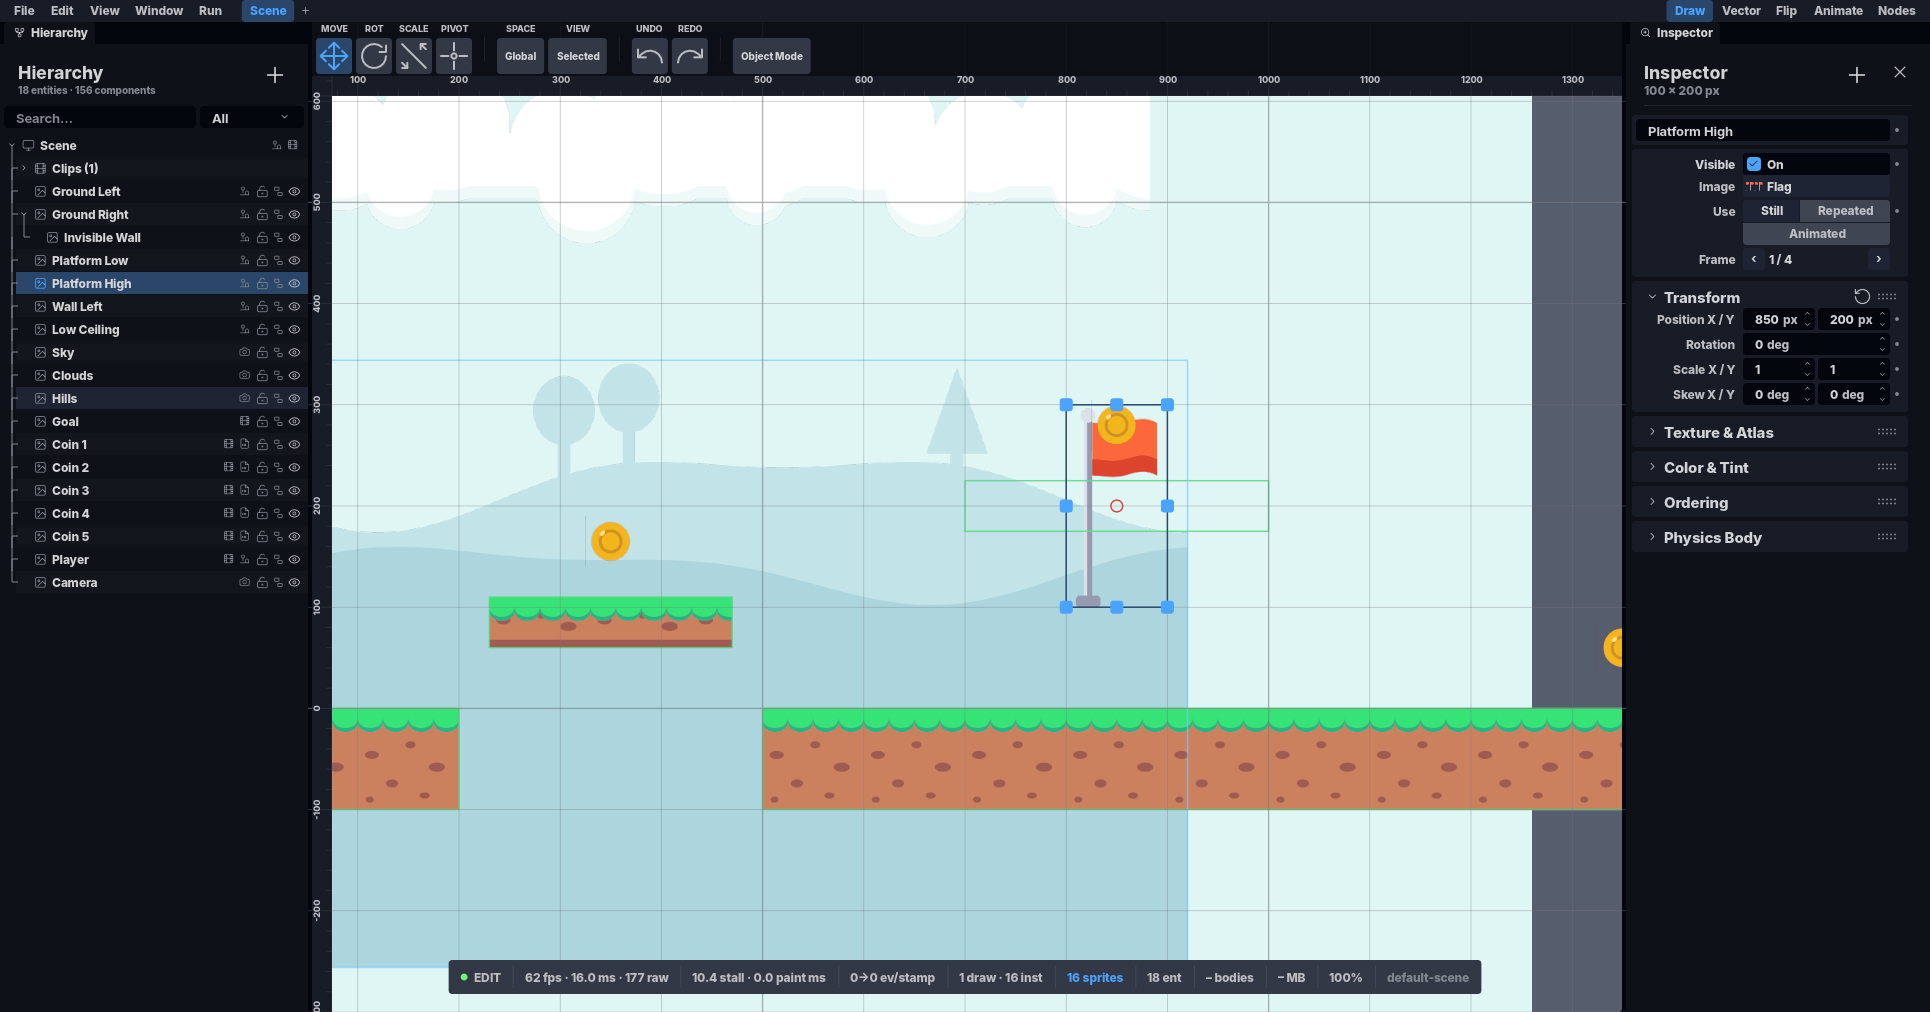
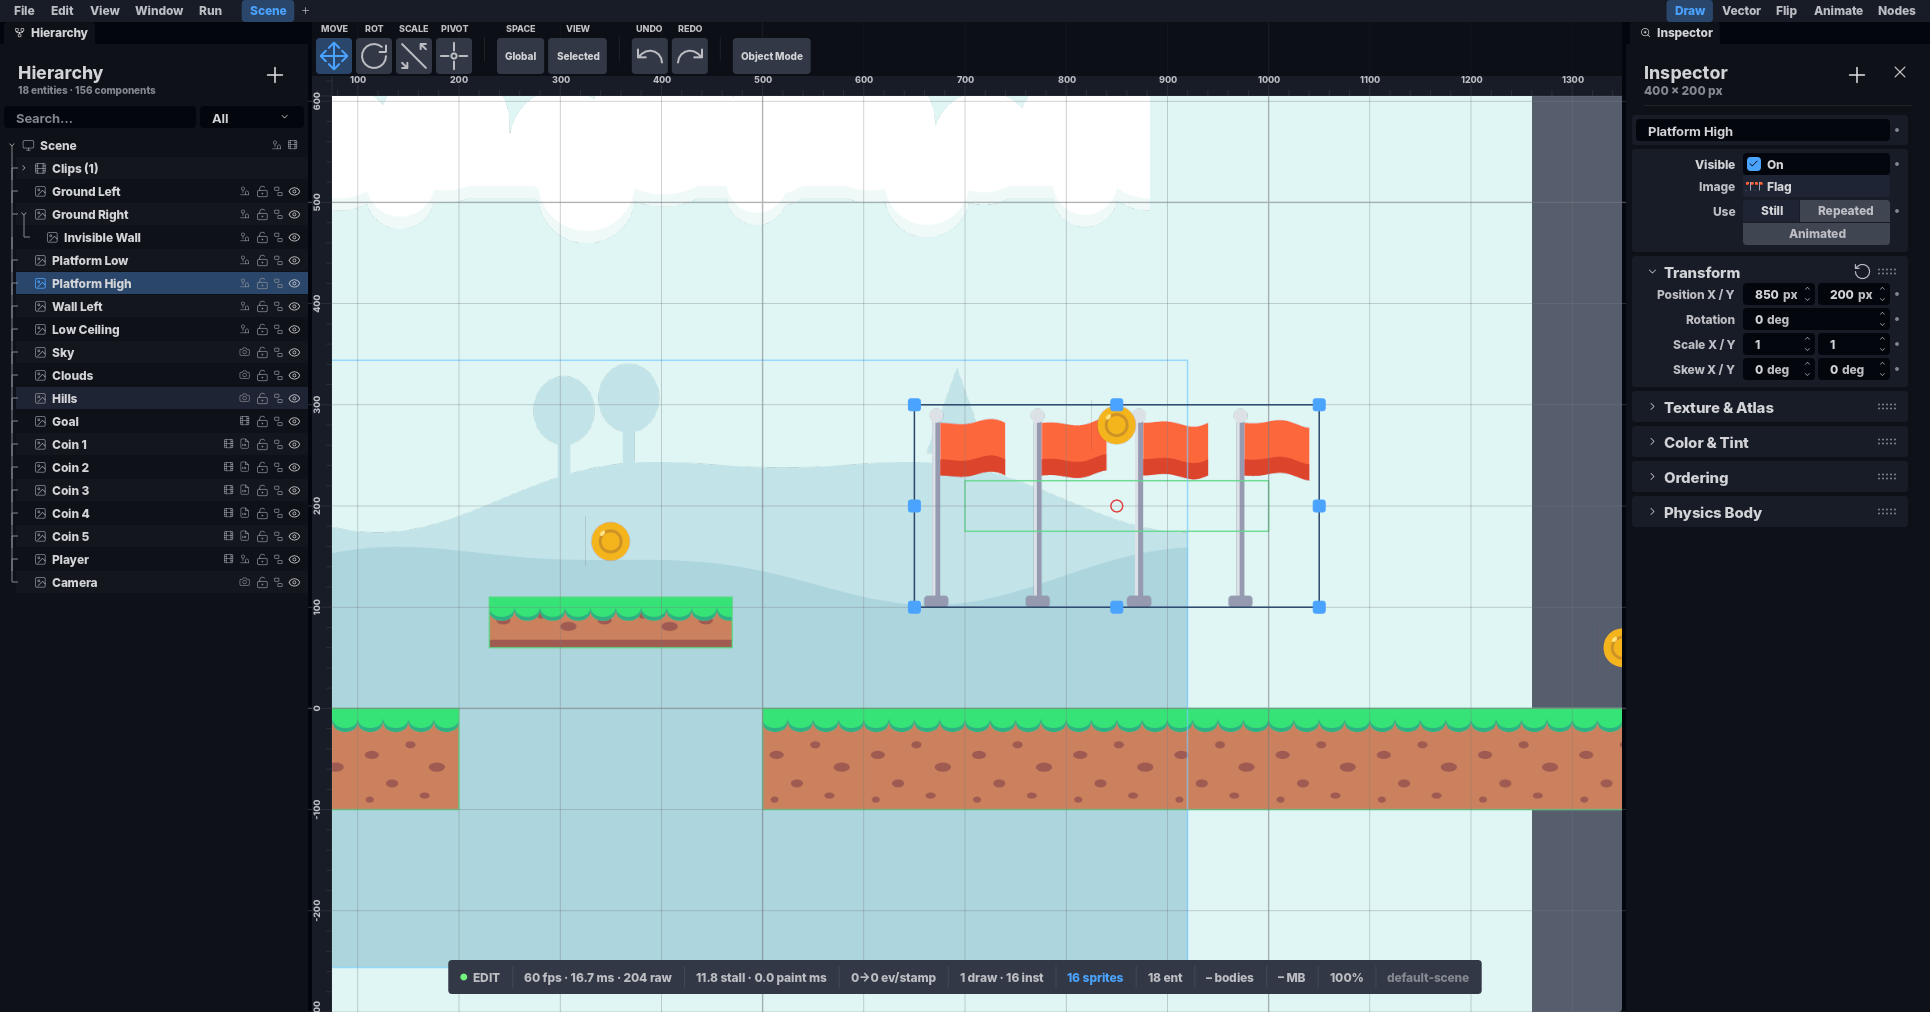
fix(GEF 15, dono 27/10): Still mostra a imagem INTEIRA — uma folha perde o corte e cresce à folha, à mesma escala

diff --git a/crates/ph2d-app-sprite-anim/src/image_use_15_tests.rs b/crates/ph2d-app-sprite-anim/src/image_use_15_tests.rs
@@ -261,3 +261,26 @@ fn parada_de_um_bloco_mostra_um_ladrilho() {
     assert!(usa(&mut sim, e, InspectorImageUse::Still));
     assert_eq!(sim.world().get::<Sprite>(e).map(|s| s.size), Some(tile));
 }
+
+/// Dono 27/10: «Still não deveria mostrar a imagem integral?» — passar a parada mostra a folha INTEIRA (sem corte,
+/// sem quadro a escolher), à escala a que a célula se via.
+#[test]
+fn parada_mostra_a_imagem_inteira() {
+    let mut sim = SimWorld::new();
+    ph2d_app_game::smoke::montar(&mut sim, &registo(), 4);
+    let e = por_nome(&mut sim, "Player");
+    let g = sim.world().get::<SpriteGrid>(e).copied().expect("folha");
+    let celula = sim
+        .world()
+        .get::<Sprite>(e)
+        .map(|s| s.size)
+        .expect("sprite");
+    assert!(g.hframes * g.vframes > 1);
+    assert!(usa(&mut sim, e, InspectorImageUse::Still));
+    let w = sim.world();
+    assert_eq!(w.get::<SpriteGrid>(e).copied(), Some(SpriteGrid::SINGLE));
+    assert_eq!(
+        w.get::<Sprite>(e).map(|s| s.size),
+        Some([celula[0] * g.hframes as f32, celula[1] * g.vframes as f32])
+    );
+}

diff --git a/crates/ph2d-app-sprite-anim/src/image_use.rs b/crates/ph2d-app-sprite-anim/src/image_use.rs
@@ -227,9 +227,20 @@ pub fn set_use(
                 (uv.scale[0] > 0.0 && uv.scale[1] > 0.0)
                     .then(|| [size[0] / uv.scale[0], size[1] / uv.scale[1]])
             });
+            let grelha = world.get::<SpriteGrid>(e).copied();
             let mut ent = world.entity_mut(e);
             if let (Some(tile), Some(mut s)) = (ladrilho, ent.get_mut::<Sprite>()) {
                 s.size = tile;
+            }
+            // ⭐ Parada = a imagem INTEIRA (dono 27/10): um quadro de uma folha cresce à folha, à mesma escala.
+            if let Some(g) = grelha.filter(|g| g.hframes.max(1) * g.vframes.max(1) > 1)
+                && let Some(mut s) = ent.get_mut::<Sprite>()
+            {
+                s.size = [
+                    s.size[0] * g.hframes.max(1) as f32,
+                    s.size[1] * g.vframes.max(1) as f32,
+                ];
+                ent.insert(SpriteGrid::SINGLE);
             }
             ent.remove::<(TiledDraw, TextureRepeat, UvTransform)>();
             true

diff --git a/docs/GameEngineFuncional/handoffs/HANDOFF_CONTINUACAO_2026-10-26_15_USO_A_VISTA.md b/docs/GameEngineFuncional/handoffs/HANDOFF_CONTINUACAO_2026-10-26_15_USO_A_VISTA.md
@@ -136,3 +136,13 @@ com grelha, a pré-visualização grande do cartão (onda 07) e os ícones da li
 ecrã já anima). (2) «Show Sheet» (a folha no ecrã) é raro — desce ao «Advanced» da Animation. (3) O seletor
 «Use» quebra em duas linhas à largura de fábrica (Still · Repeated / Animated). (4) Numeração 0 (Inspector) ×
 1 (editor de animações).
+
+## Dono 27/10: «Still não deveria mostrar a imagem integral no canvas?» — SIM
+
+`set_use(Still)`: depois do ladrilho, uma folha (grelha > 1) passa a `SpriteGrid::SINGLE` e o tamanho cresce à
+folha inteira (célula × grelha, a mesma escala). Por baixo do Use não fica nada. Gate
+`image_use_15_tests::parada_mostra_a_imagem_inteira` (Player 8×4); o desfazer continua a devolver tudo.
+Fotos `player_parado` (Inspector 800 × 400 px; o Player fica fora da vista da foto) e `uso_parada` (as 4
+bandeiras lado a lado). ⚠ O «Frame ‹ n / N ›» só aparece agora numa parada ANTIGA que mostra uma célula
+(ficheiros de antes, ou uma queda que nasce numa célula — `place_library_image` com `still_frame`: conferir no
+próximo smoke se uma folha largada no canvas deve nascer inteira).
